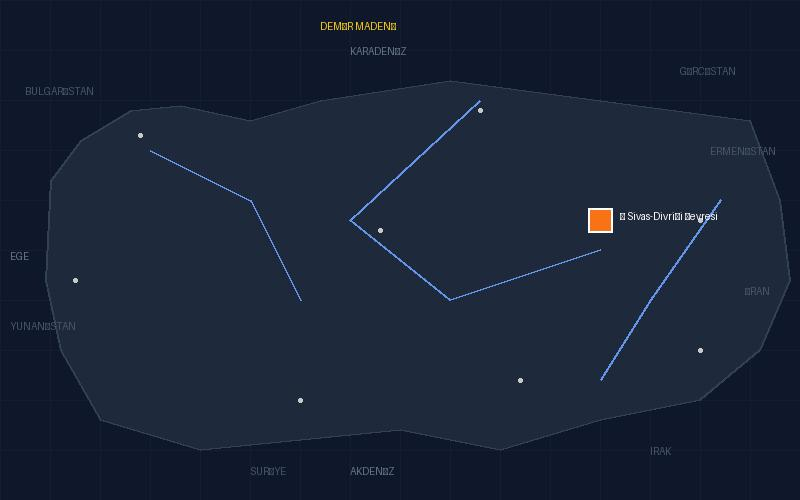
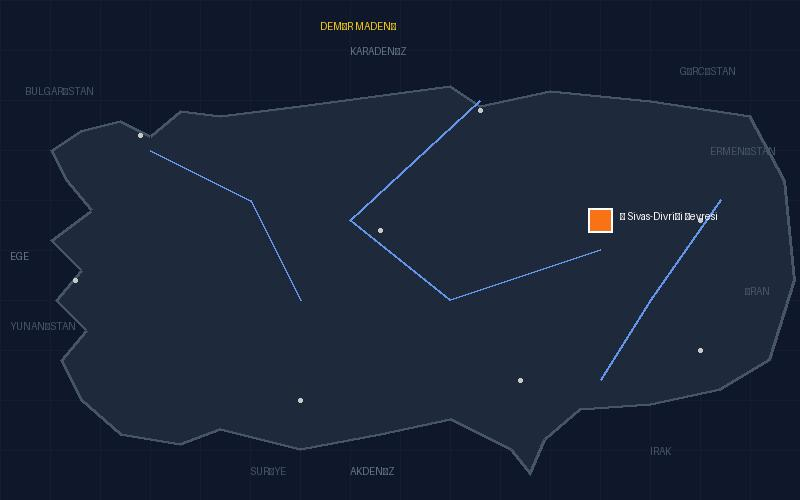
feat: turkiye sinirlari daha detayli ve gercekci hale getirildi

diff --git a/download_assets.py b/download_assets.py
@@ -53,16 +53,18 @@ def download_kpss_images():
         for x in range(0, 800, 50): draw.line([(x, 0), (x, 500)], fill=(22, 30, 46), width=1)
         for y in range(0, 500, 50): draw.line([(0, y), (800, y)], fill=(22, 30, 46), width=1)
 
-        # 2. Basitleştirilmiş Türkiye Formu (Sınırlar)
+        # 2. Geliştirilmiş Türkiye Sınırları (Detaylandırıldı)
         turkey_outline = [
-            (50, 180), (80, 140), (130, 110), (180, 105), (250, 120), (320, 100),
-            (450, 80), (600, 100), (750, 120), (780, 200), (790, 280), (760, 350),
-            (700, 400), (600, 420), (500, 450), (400, 430), (300, 440), (200, 450),
-            (100, 420), (60, 350), (45, 280)
+            (50, 150), (80, 130), (120, 120), (150, 135), (180, 110), (220, 115), 
+            (300, 105), (450, 85), (480, 105), (550, 90), (650, 100), (750, 115), 
+            (785, 180), (795, 280), (770, 360), (720, 390), (650, 405), (580, 410), 
+            (545, 440), (530, 475), (510, 450), (450, 420), (380, 435), (300, 450), 
+            (220, 430), (180, 445), (120, 435), (80, 400), (60, 360), (85, 330), 
+            (55, 300), (80, 270), (50, 240), (90, 210), (65, 180)
         ]
         
         # Kara parçasını doldur ve sınırı çiz
-        draw.polygon(turkey_outline, fill=(30, 41, 59), outline=(51, 65, 85), width=2)
+        draw.polygon(turkey_outline, fill=(30, 41, 59), outline=(71, 85, 105), width=3)
 
         # 2.5 Nehirleri Çiz
         for river in rivers:
